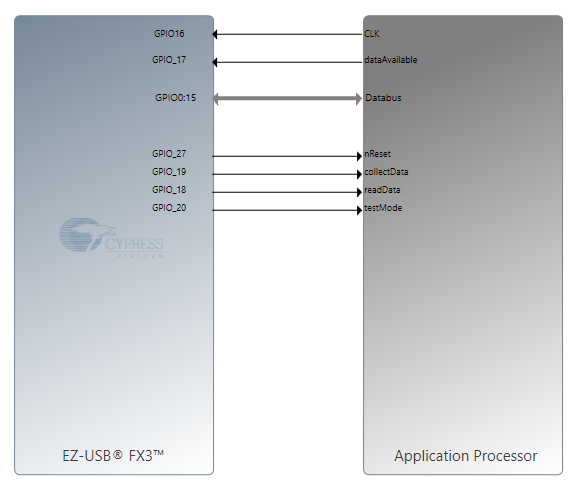
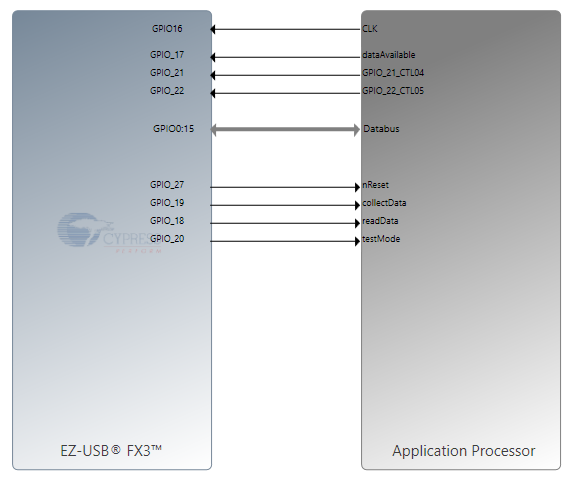
Added two GPIO input signals to FX3 (to assist with debug)

diff --git a/firmware/FX3-Firmware/domesdayDuplicator/domesdayDuplicatorGpif.h b/firmware/FX3-Firmware/domesdayDuplicator/domesdayDuplicatorGpif.h
@@ -1,6 +1,6 @@
 /*
  * Project Name: DomesdayDuplicator.cyfx
- * Time : 12/06/2017 15:06:51
+ * Time : 12/06/2017 19:38:55
  * Device Type: FX3
  * Project Type: GPIF2
  *
@@ -84,7 +84,7 @@ uint32_t CyFxGpifRegValue[]  = {
     0x00000082,  /*  CY_U3P_PIB_GPIF_SERIAL_IN_CONFIG */
     0x00000782,  /*  CY_U3P_PIB_GPIF_SERIAL_OUT_CONFIG */
     0x00100054,  /*  CY_U3P_PIB_GPIF_CTRL_BUS_DIRECTION */
-    0x0000FFFE,  /*  CY_U3P_PIB_GPIF_CTRL_BUS_DEFAULT */
+    0x0000FFCE,  /*  CY_U3P_PIB_GPIF_CTRL_BUS_DEFAULT */
     0x00000000,  /*  CY_U3P_PIB_GPIF_CTRL_BUS_POLARITY */
     0x00000000,  /*  CY_U3P_PIB_GPIF_CTRL_BUS_TOGGLE */
     0x00000000,  /*  CY_U3P_PIB_GPIF_CTRL_BUS_SELECT */
